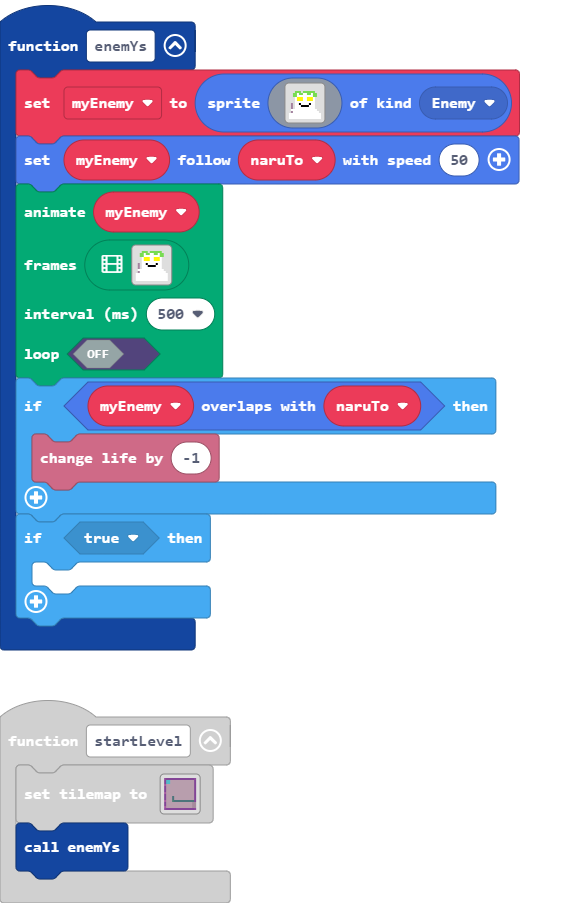
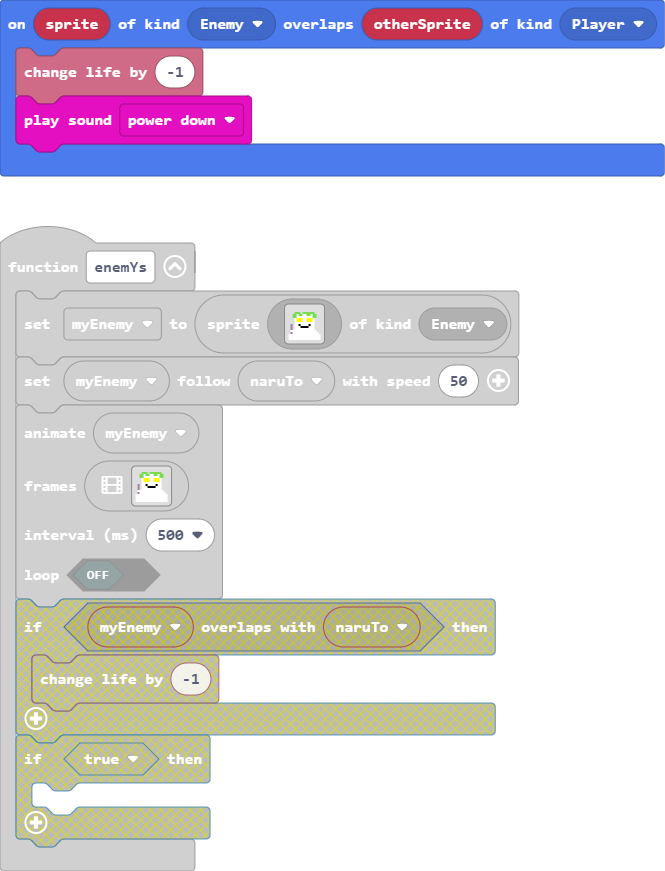
Update main.blocks, main.ts

diff --git a/main.ts b/main.ts
@@ -66,12 +66,6 @@ function enemYs () {
     500,
     false
     )
-    if (myEnemy.overlapsWith(naruTo)) {
-        info.changeLifeBy(-1)
-    }
-    if (true) {
-    	
-    }
 }
 controller.A.onEvent(ControllerButtonEvent.Pressed, function () {
     animeNaruto()
@@ -116,6 +110,10 @@ function animeNaruto () {
     false
     )
 }
+sprites.onOverlap(SpriteKind.Enemy, SpriteKind.Player, function (sprite, otherSprite) {
+    info.changeLifeBy(-1)
+    music.powerDown.play()
+})
 controller.up.onEvent(ControllerButtonEvent.Released, function () {
     animation.stopAnimation(animation.AnimationTypes.All, naruTo)
 })
